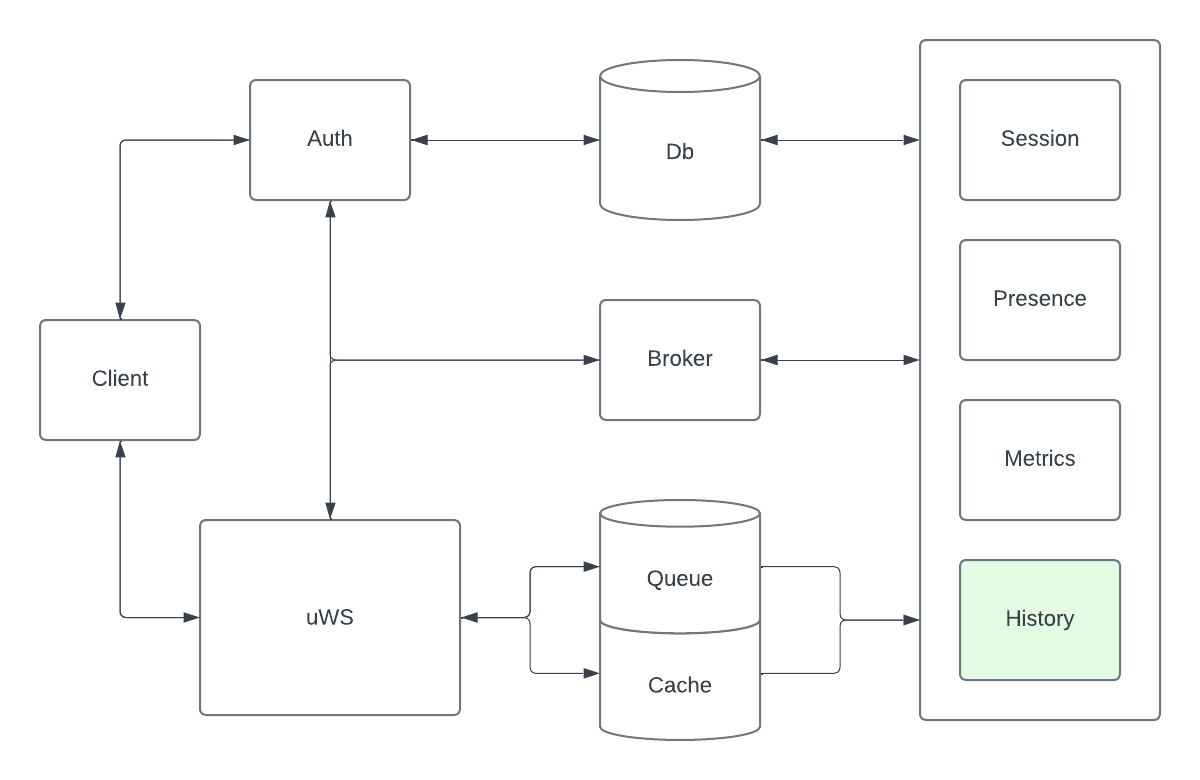
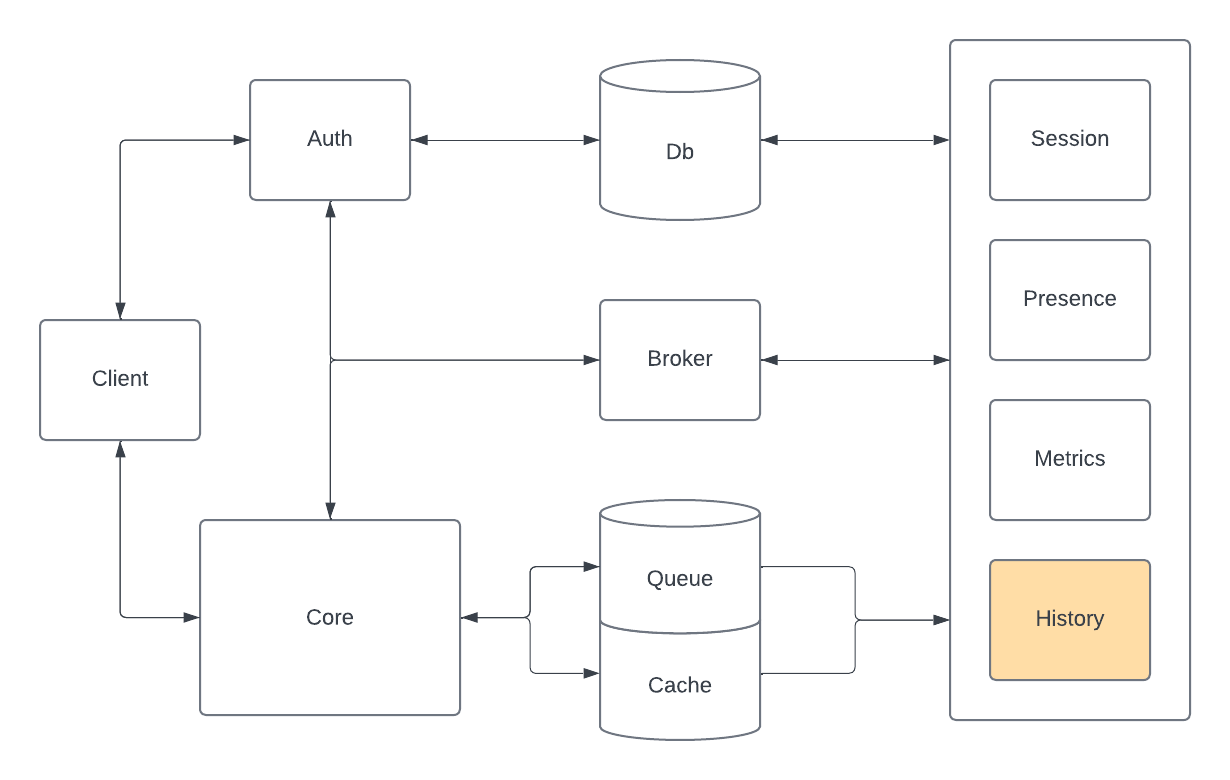
chore: add system diagram [skip ci]

diff --git a/README.md b/README.md
@@ -39,7 +39,7 @@ npm run test
 
 The "history" service is currently an extremely lightweight service with a single task. When a message is saved to the a room's historical messages, the service will lookup the history `ttl` value from the database and apply it to the key that has been created.
 
-<!-- ![RelayBox system diagram, highlight History](/assets/system/relaybox-system-history.png) -->
+![RelayBox system diagram, highlight History](/assets/system/relaybox-system-history.png)
 
 Room history is stored in Redis as date partitioned sorted sets. Each hour has a unique key consiting of the namespaced room id and the hourly timestamp in the following format;
 
